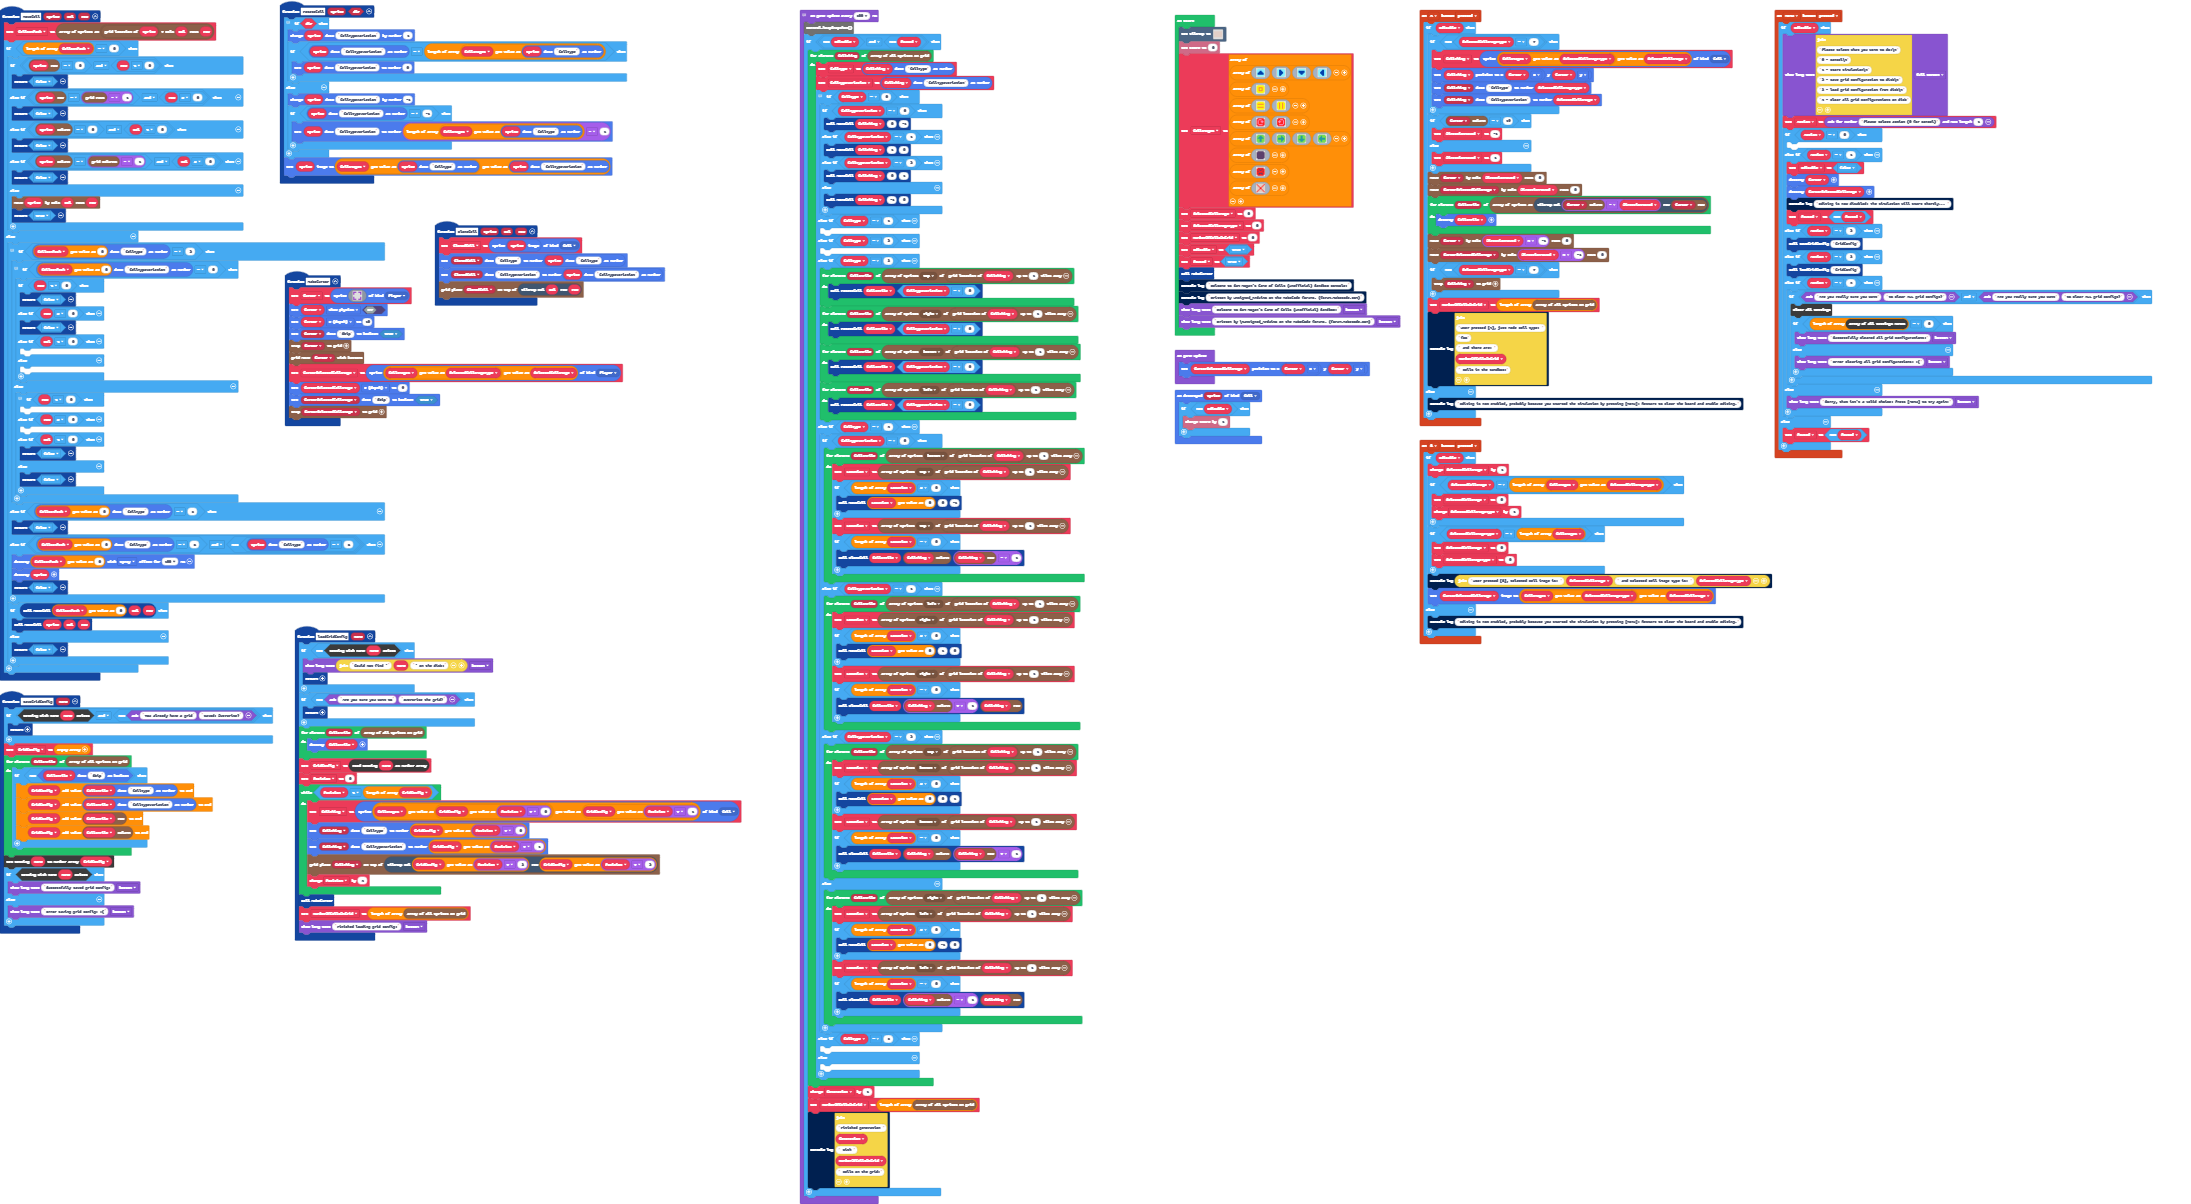
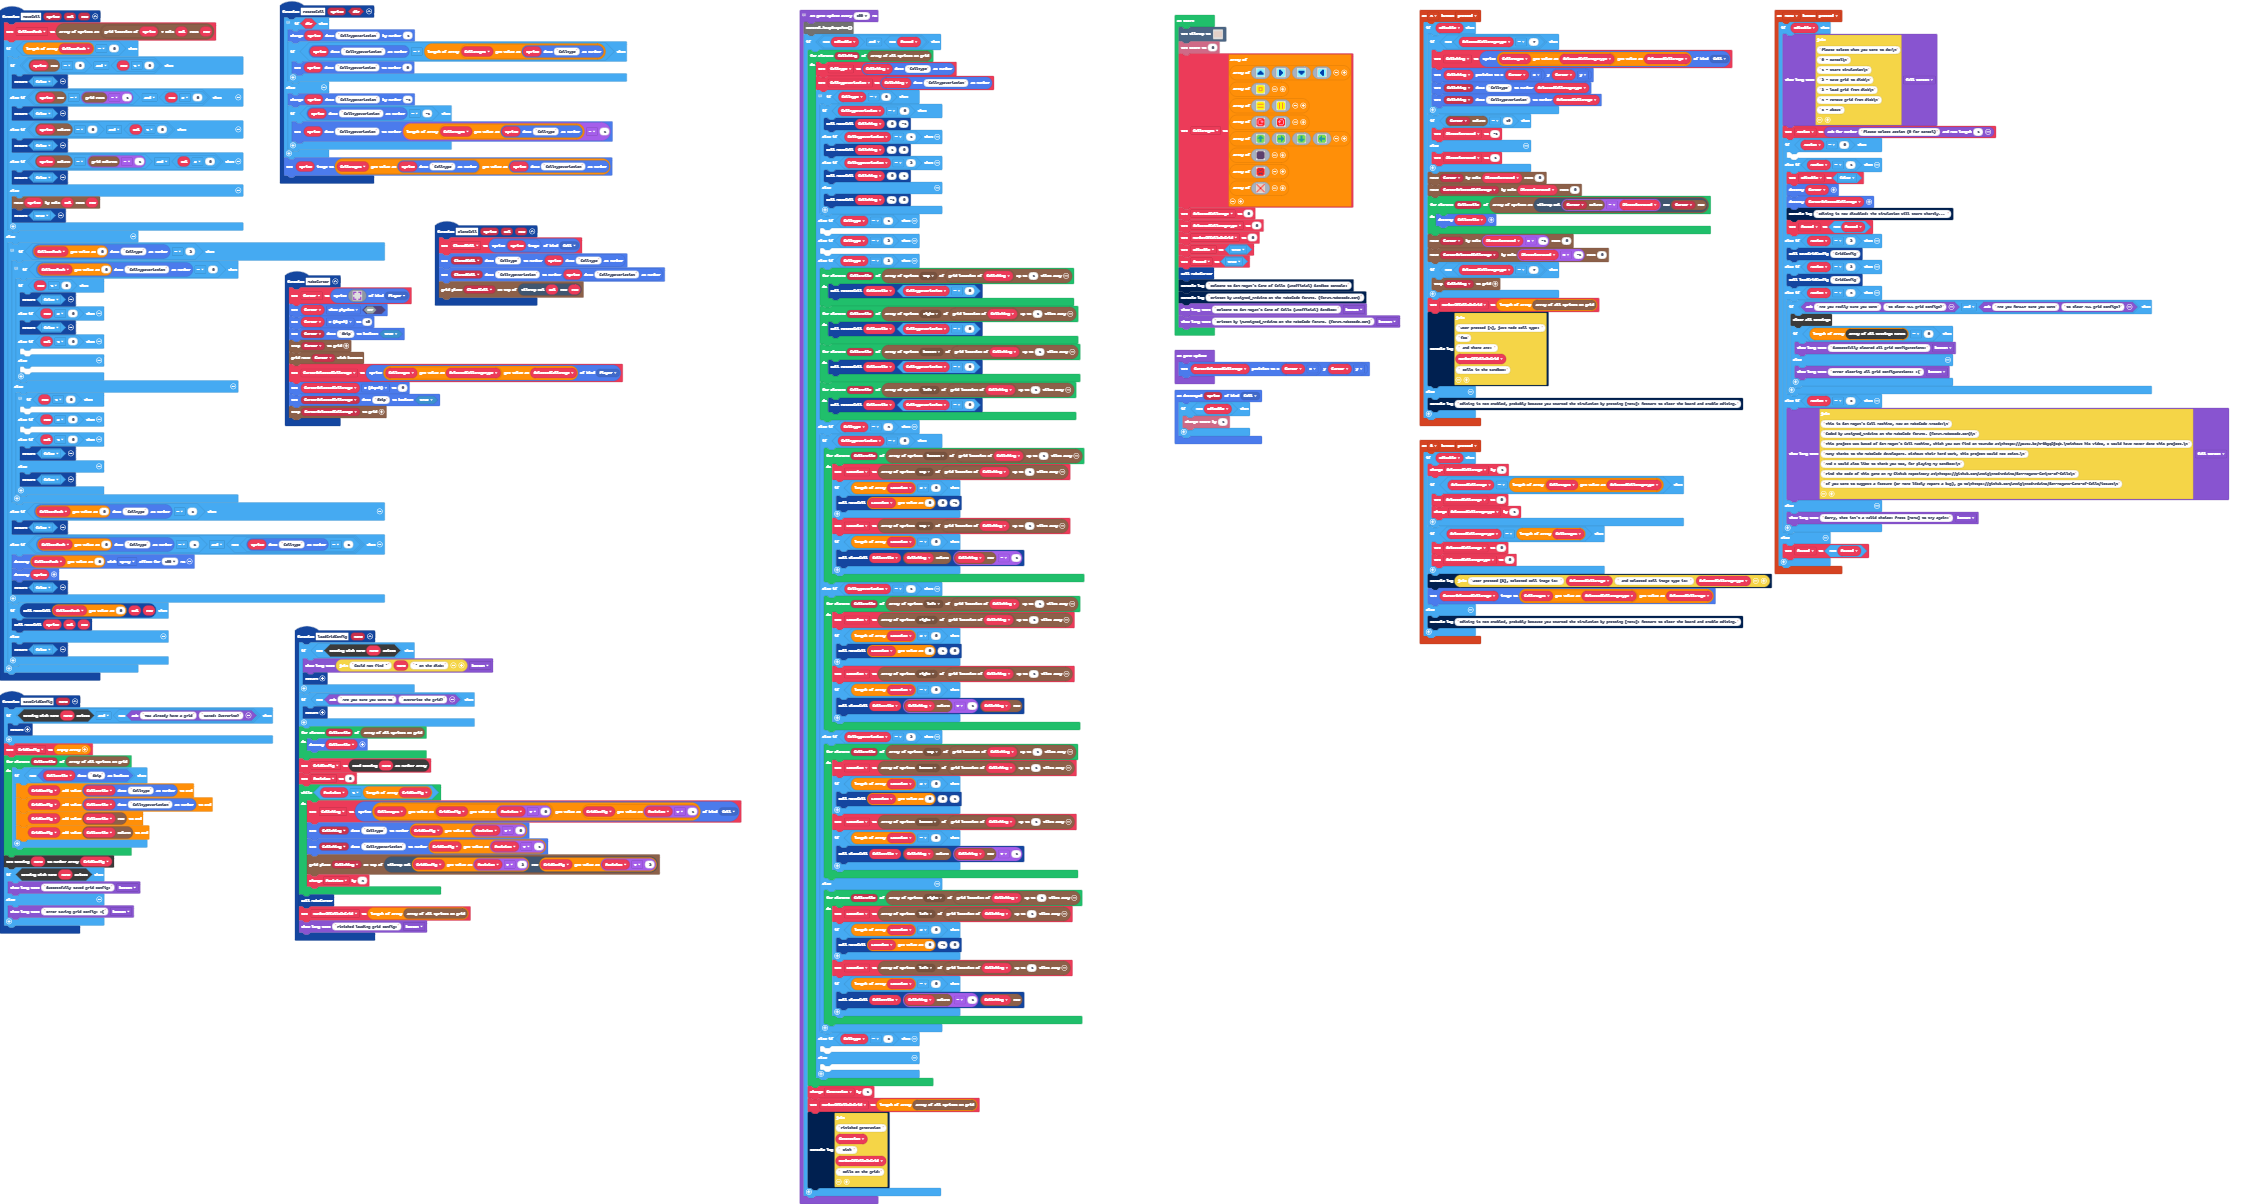
Re-worked the menu in hopes of multiple saves and added about choice

diff --git a/main.ts b/main.ts
@@ -223,7 +223,7 @@ function makeCursor () {
 }
 controller.menu.onEvent(ControllerButtonEvent.Pressed, function () {
     if (Editable) {
-        game.showLongText("Please select what you want to do:\\n" + "0 - cancel\\n" + "1 - start simulation\\n" + "2 - save grid configuration to disk\\n" + "3 - load grid configuration from disk\\n" + "4 - clear all grid configurations on disk", DialogLayout.Full)
+        game.showLongText("Please select what you want to do:\\n" + "0 - cancel\\n" + "1 - start simulation\\n" + "2 - save grid to disk\\n" + "3 - load grid from disk\\n" + "4 - remove grid from disk\\n" + "5 - about", DialogLayout.Full)
         Action = game.askForNumber("Please select action (0 for cancel)", 1)
         if (Action == 0) {
         	
@@ -238,7 +238,7 @@ controller.menu.onEvent(ControllerButtonEvent.Pressed, function () {
         } else if (Action == 3) {
             loadGridConfig("GridConfig")
         } else if (Action == 4) {
-            if (game.ask("Are you really sure you want", "to clear ALL grid configs?") && game.ask("Are you really sure you want", "to clear ALL grid configs?")) {
+            if (game.ask("Are you really sure you want", "to clear ALL grid configs?") && game.ask("Are you REALLY sure you want", "to clear ALL grid configs?")) {
                 blockSettings.clear()
                 if (blockSettings.list().length == 0) {
                     game.showLongText("Successfully cleared all grid configurations!", DialogLayout.Bottom)
@@ -246,6 +246,8 @@ controller.menu.onEvent(ControllerButtonEvent.Pressed, function () {
                     game.showLongText("Error clearing all grid configurations! :(", DialogLayout.Bottom)
                 }
             }
+        } else if (Action == 5) {
+            game.showLongText("This is Sam Hogan's Cell Machine, now on MakeCode Arcade!\\n" + "Coded by Unsigned_Arduino on the MakeCode forums. (forum.makecode.com)\\n" + "This project was based of Sam Hogan's Cell Machine, which you can find on YouTube at\\nhttps://youtu.be/N-BbgqOjIqk.\\nWithout his video, I would have never done this project.\\n" + "Many thanks to the MakeCode developers. Without their hard work, this project would not exist.\\n" + "And I would also like to thank you too, for playing my sandbox!\\n" + "Find the code of this game on my Github repository at\\nhttps://github.com/Unsig\\nnedArduino/Sam-Hogans-Gam\\ne-of-Cells\\n" + "If you want to suggest a feature (or more likely report a bug), go to\\nhttps://github.com/Unsig\\nnedArduino/Sam-Hogans-Game-of-Cells/issues\\n", DialogLayout.Full)
         } else {
             game.showLongText("Sorry, that isn't a valid choice! Press [Menu] to try again!", DialogLayout.Bottom)
         }
